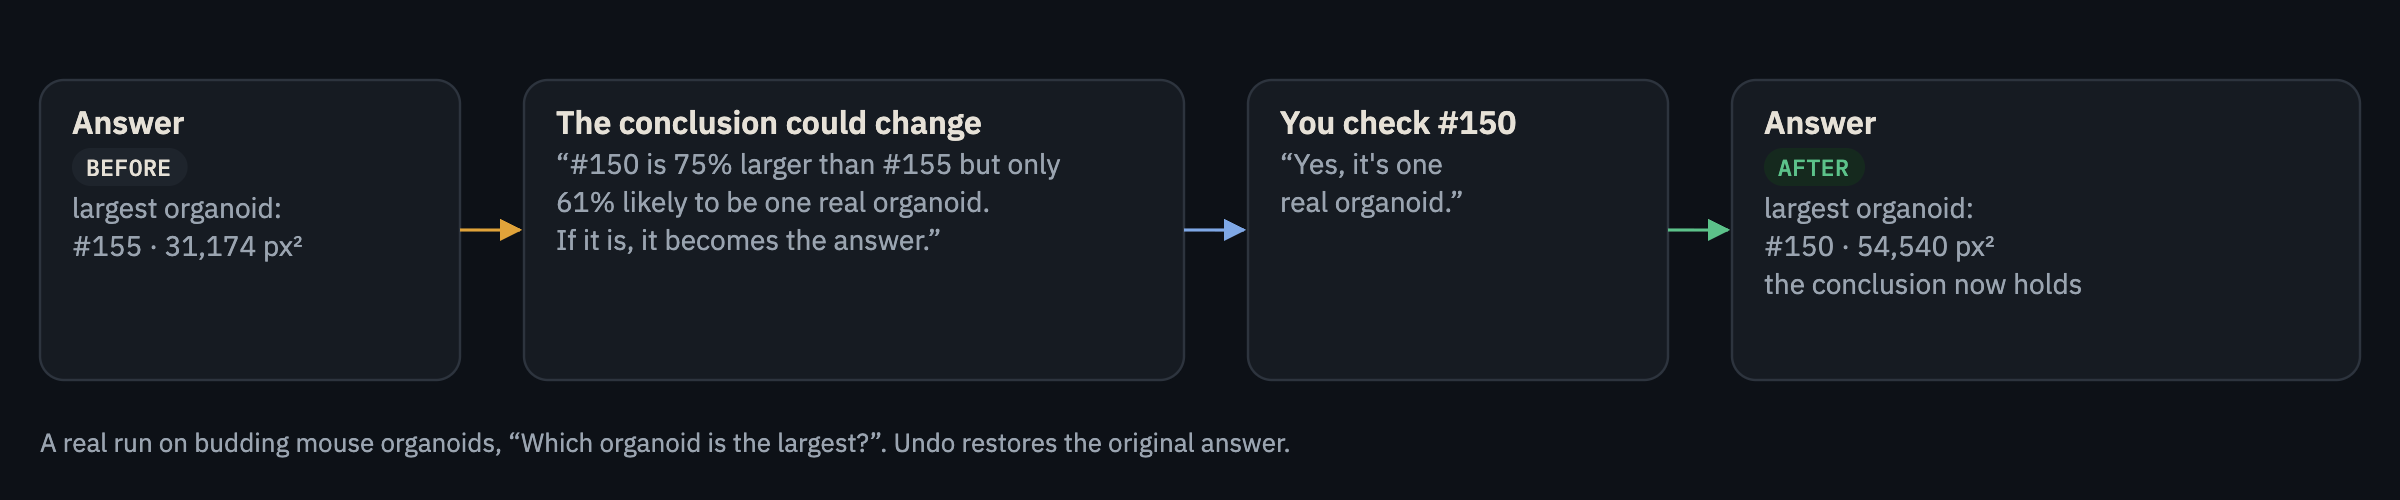
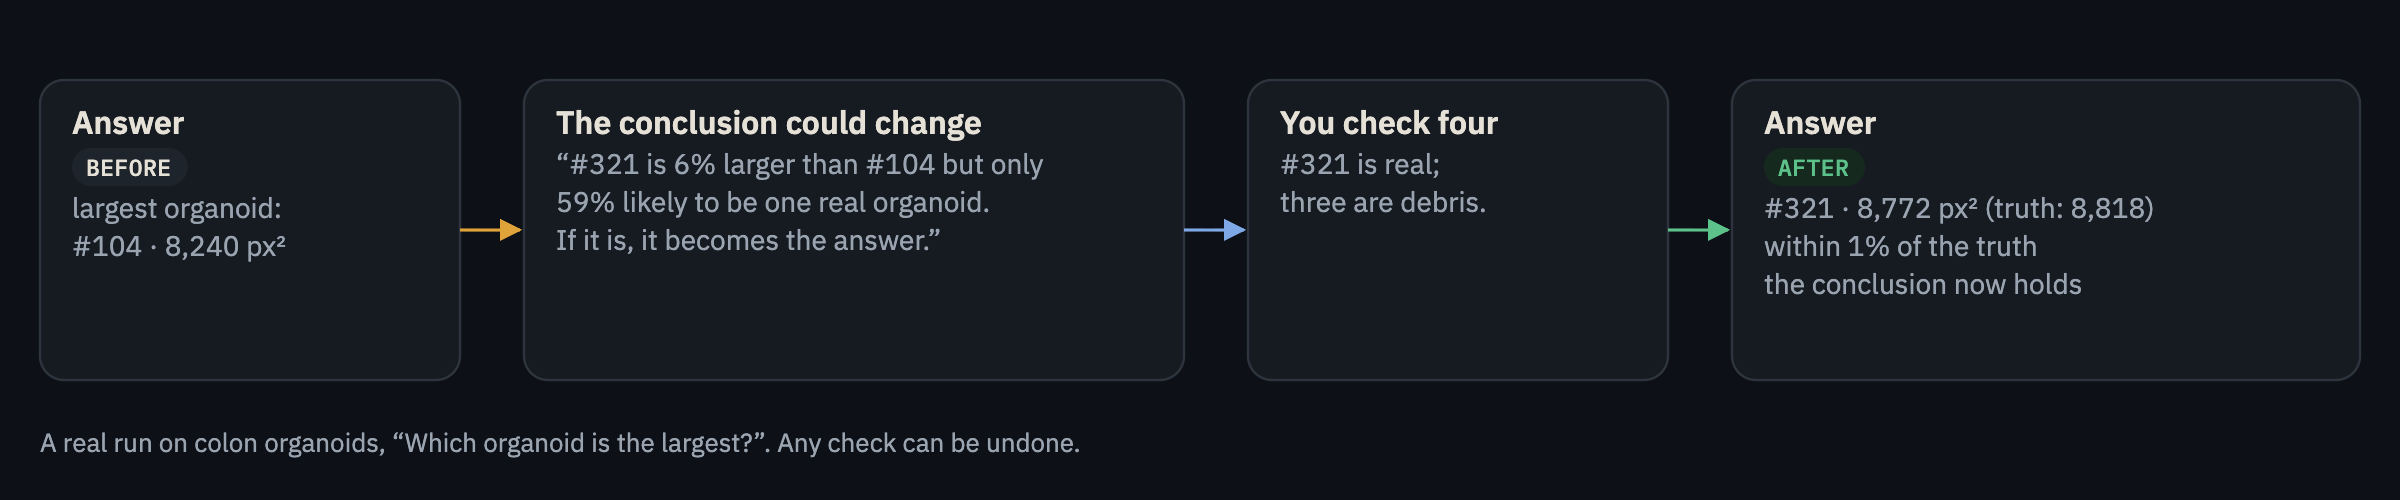
README: embed the demo video link and preview; update the verification walkthrough to the Colon run

diff --git a/docs/diagrams/diagrams.html b/docs/diagrams/diagrams.html
@@ -191,14 +191,14 @@ function panel(svg, x, y, w, h, n, title, sub) {
 (() => {
   const s = document.getElementById("verify"); defs(s);
   const y = 40, h = 150;
-  card(s, 20, y, 210, h, "Answer", { lines: ["largest organoid:", "#155 · 31,174 px²"], tag: "BEFORE", kind: "code" });
-  card(s, 262, y, 330, h, "The conclusion could change", { accent: "var(--amber)", lines: ["“#150 is 75% larger than #155 but only", "61% likely to be one real organoid.", "If it is, it becomes the answer.”"] });
-  card(s, 624, y, 210, h, "You check #150", { lines: ["“Yes, it's one", "real organoid.”"], fill: "var(--blue-soft)", accent: "var(--blue)" });
-  card(s, 866, y, 314, h, "Answer", { tag: "AFTER", kind: "oss", lines: ["largest organoid:", "#150 · 54,540 px²", "the conclusion now holds"], accent: "var(--green)" });
+  card(s, 20, y, 210, h, "Answer", { lines: ["largest organoid:", "#104 · 8,240 px²"], tag: "BEFORE", kind: "code" });
+  card(s, 262, y, 330, h, "The conclusion could change", { accent: "var(--amber)", lines: ["“#321 is 6% larger than #104 but only", "59% likely to be one real organoid.", "If it is, it becomes the answer.”"] });
+  card(s, 624, y, 210, h, "You check four", { lines: ["#321 is real;", "three are debris."], fill: "var(--blue-soft)", accent: "var(--blue)" });
+  card(s, 866, y, 314, h, "Answer", { tag: "AFTER", kind: "oss", lines: ["#321 · 8,772 px² (truth: 8,818)", "within 1% of the truth", "the conclusion now holds"], accent: "var(--green)" });
   wire(s, `M230,${y + h / 2} H260`, "amber", "aa");
   wire(s, `M592,${y + h / 2} H622`, "blue", "ab");
   wire(s, `M834,${y + h / 2} H864`, "green", "ag");
-  el(s, "text", { x: 20, y: 226, class: "s" }, "A real run on budding mouse organoids, “Which organoid is the largest?”. Undo restores the original answer.");
+  el(s, "text", { x: 20, y: 226, class: "s" }, "A real run on colon organoids, “Which organoid is the largest?”. Any check can be undone.");
 })();
 </script>
 </body>

diff --git a/README.md b/README.md
@@ -1,7 +1,7 @@
 > **Provenance:** built from scratch during the Meta AI Developer Hackathon, Oct 26 – Nov 4, 2026; nothing pre-existing.
 > **Runtime Meta stack:** Muse Spark 1.3 · SAM 3.1 · Muse Voice Transcribe · Muse Spark Open (16/16 plans on open weights) · Muse Glimmer 30B (fine-tune experiment).
 > **Bonus categories:** Best Agentic Use-Case · Best Build on Meta Open Weight Models.
-> **Try it, no setup:** [2-minute guided tour on a real image](https://pranavdaware1-1--vericell-web.us-east.modal.run/app?tour=1).
+> **Demo video:** [watch the 2:32 walkthrough](https://youtu.be/QWMNuQcAVDs). **Try it, no setup:** [2-minute guided tour on a real image](https://pranavdaware1-1--vericell-web.us-east.modal.run/app?tour=1).
 
 <div align="center">
 
@@ -18,15 +18,21 @@ points at the few objects a scientist should double-check.
 [![tests](https://github.com/dawarepranav/VeriCell/actions/workflows/tests.yml/badge.svg)](https://github.com/dawarepranav/VeriCell/actions/workflows/tests.yml)
 [![license: MIT](https://img.shields.io/badge/license-MIT-1f4e8c)](LICENSE)
 [![python 3.11](https://img.shields.io/badge/python-3.11-1f4e8c)](pyproject.toml)
+[![demo video](https://img.shields.io/badge/demo%20video-YouTube-c0392b)](https://youtu.be/QWMNuQcAVDs)
 [![live demo](https://img.shields.io/badge/live%20demo-Modal-2d7a4c)](https://pranavdaware1-1--vericell-web.us-east.modal.run)
 [![dataset](https://img.shields.io/badge/%F0%9F%A4%97%20results-dataset-b8730b)](https://huggingface.co/datasets/pranavdaware/vericell-results)
 
+**[Watch the demo](https://youtu.be/QWMNuQcAVDs)** ·
 **[Live demo](https://pranavdaware1-1--vericell-web.us-east.modal.run)** ·
 **[2-minute guided tour](https://pranavdaware1-1--vericell-web.us-east.modal.run/app?tour=1)** ·
 [Results](RESULTS.md) · [Architecture](docs/ARCHITECTURE.md) · [Dataset](https://huggingface.co/datasets/pranavdaware/vericell-results)
 
 Built for the **Meta AI Developer Hackathon 2026** (Push the Frontier) on
 **Muse Spark · SAM 3.1 · Muse Voice Transcribe · Muse Spark Open · Muse Glimmer**.
+
+<a href="https://youtu.be/QWMNuQcAVDs"><img src="docs/images/demo.gif" alt="VeriCell in action: it warns the conclusion could change, a claim comes back 1-organoid fragile, and four human checks bring the answer to within 1% of the truth. Click to watch the full demo video." width="100%"></a>
+
+<sub><b>▶ Click to watch the full 2:32 demo on YouTube.</b> A real run on the live site, with sound.</sub>
 
 </div>
 
@@ -135,12 +141,14 @@ questions VeriCell asks, from the same per-object probabilities that drive the r
 - **Successor:** which object takes over if the current answer isn't real?
 - **Near ties:** is the runner-up within 5%, so a small outline error could swap them?
 
-On a real run (budding mouse organoids, *"Which organoid is the largest?"*):
+On a real run (colon organoids, *"Which organoid is the largest?"*):
 
-> *#150 is 75% larger than #155 but only 61% likely to be one real organoid. If it is, it becomes the answer.*
+> *#321 is 6% larger than #104 but only 59% likely to be one real organoid. If it is, it becomes the answer.*
 
-Marking #150 real moved the answer from 31,174 px² to **54,540 px²**, the answer object from **#155 to
-#150**, and the verdict from *could change* to *holds*. Undo restores it.
+The claim "the largest organoid is at most 9,000 px²" comes back **1-organoid fragile**. Four checks later
+(#321 is real; #470, #299 and #150 are not), the answer moves from 8,240 px² to **8,772 px²**, the verdict
+changes from *could change* to *holds*, and the claim is **robust**. Hand-measured truth: **8,818 px²**, so
+the answer went from 7% off to within 1%. Any check can be undone.
 
 <picture>
   <source media="(prefers-color-scheme: dark)" srcset="docs/images/diagram-verify-dark.png">
@@ -250,7 +258,7 @@ Or with Docker: `docker compose up` (reads `.env`; keys are never baked into the
 
 | Command | What it does |
 |---|---|
-| `make test` | 29 unit tests, no API calls (also run in CI) |
+| `make test` | 31 unit tests, no API calls (also run in CI) |
 | `make data` | LIVECell sample (24 images) + MorphoOrgaVQA rebuilt from its 3 source datasets |
 | `make benchmark` | LIVECell verifier results and the full MorphoOrgaVQA run |
 | `make models` | trains the deployable verifiers and calibrates the answer ranges |
